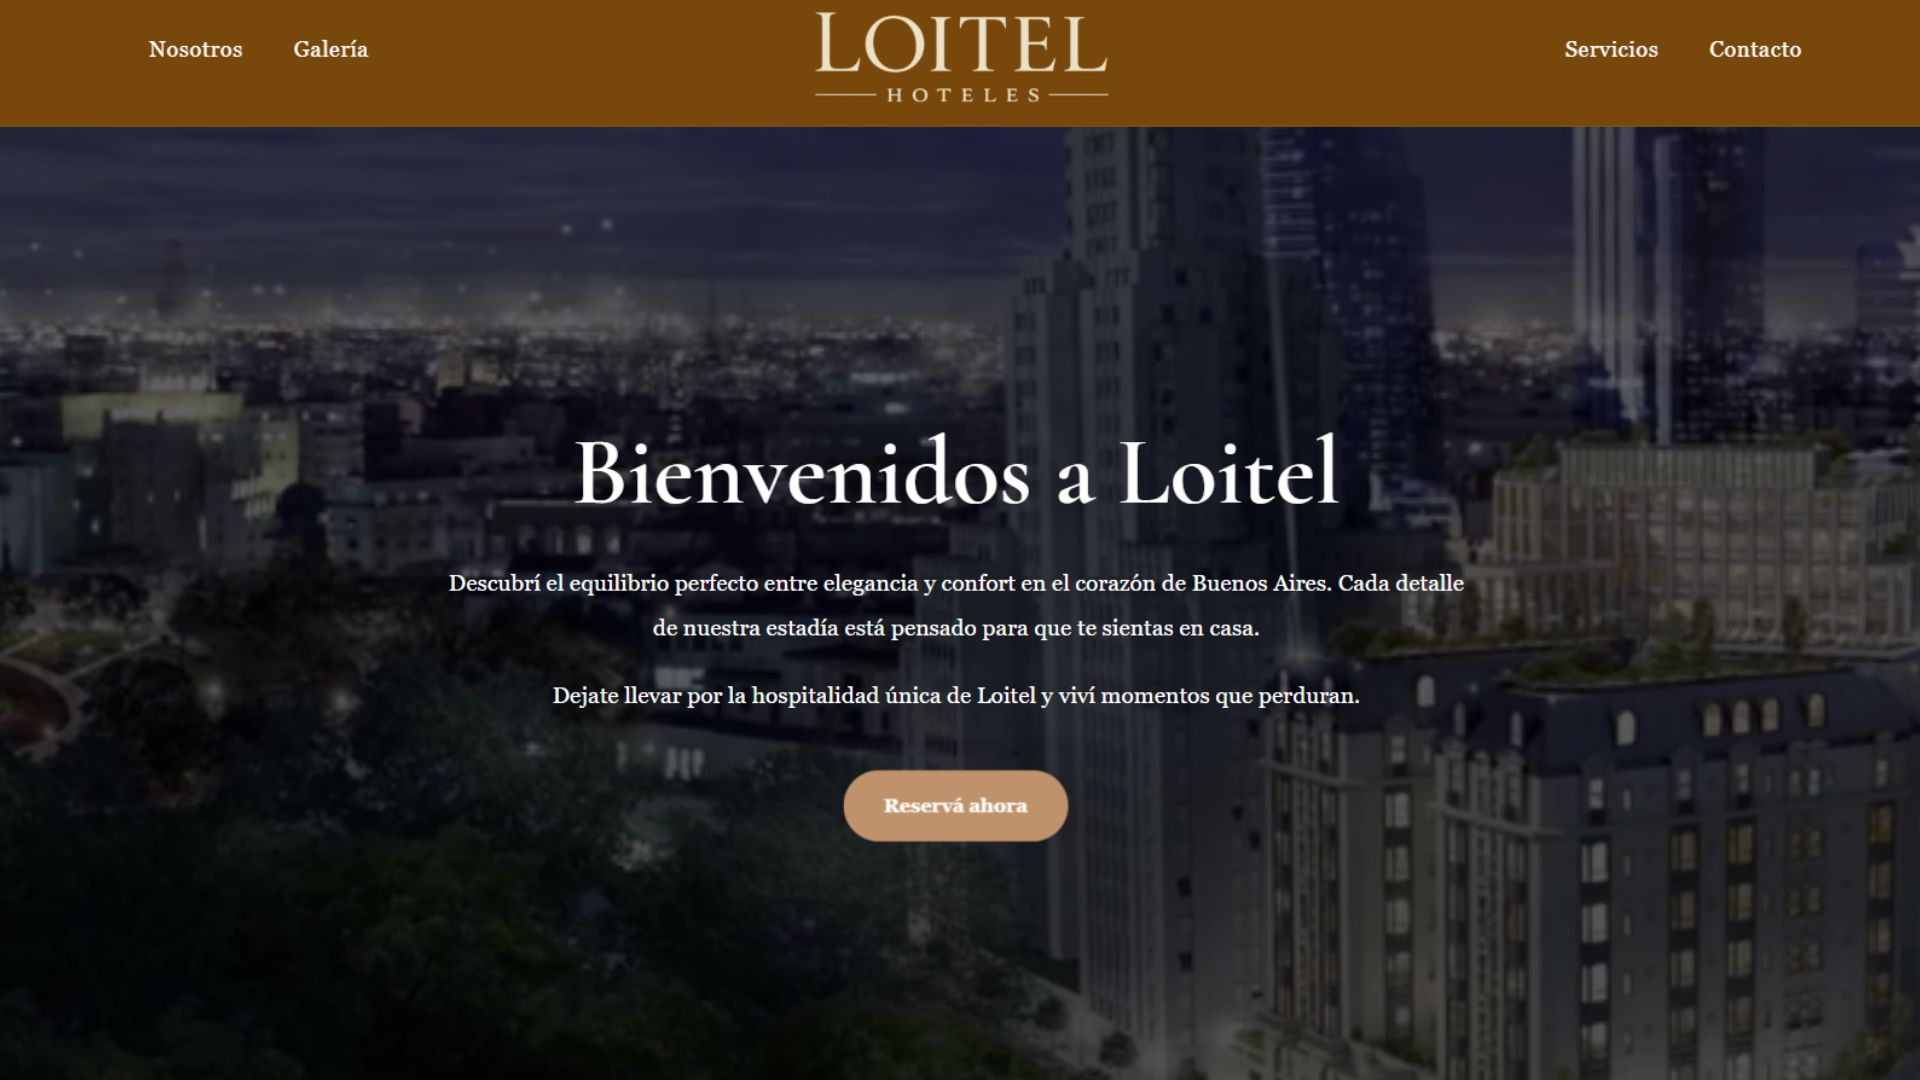
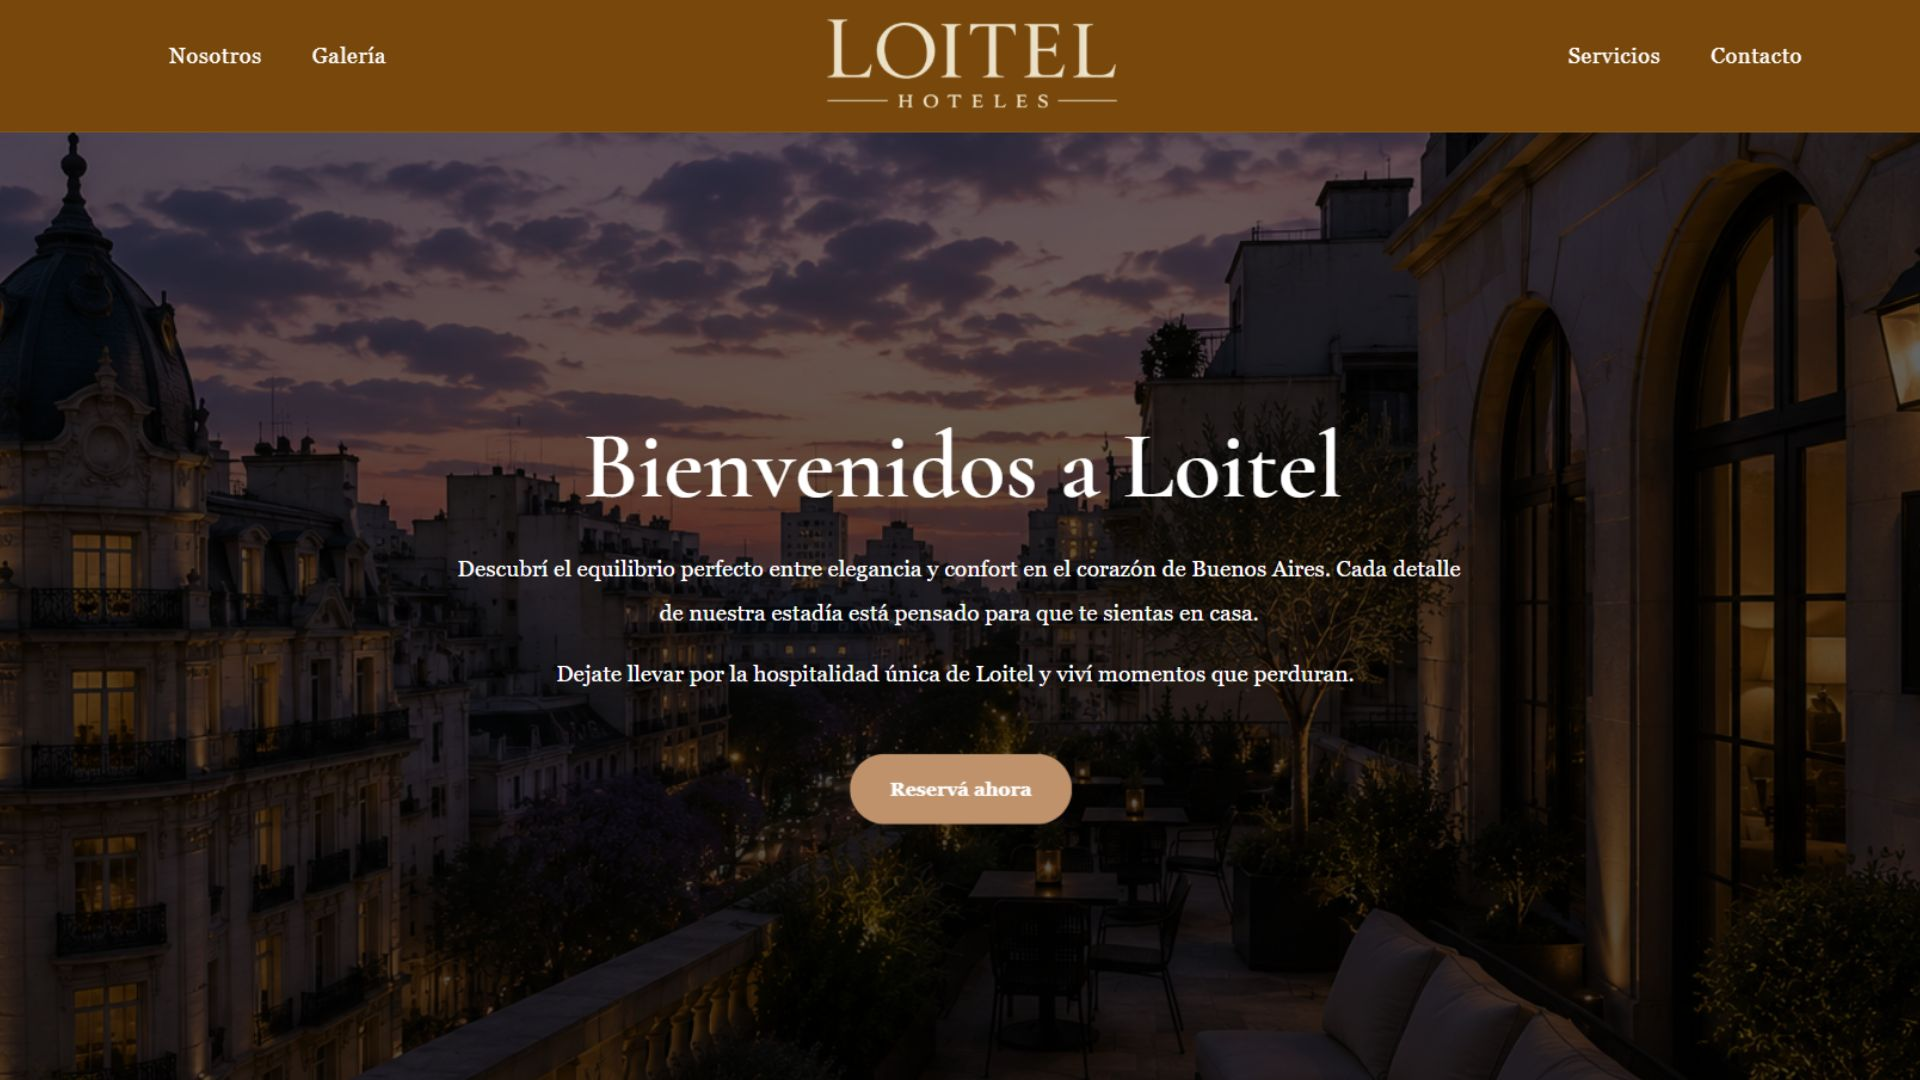
Cambio de imagenes de proyectos

diff --git a/index.html b/index.html
@@ -297,7 +297,7 @@
 
                     <article class="proy-card">
                         <a href="#" target="_blank" rel="noopener" class="proy-imagen">
-                            <img src="img/proyectos/proyecto-web-2.png" alt="Captura del proyecto 2">
+                            <img src="img/Proceso diploma.png" alt="Captura del proyecto 2">
                         </a>
                         <div class="proy-card-body">
                             <h4>Nombre del proyecto 2</h4>
@@ -310,7 +310,7 @@
 
                     <article class="proy-card">
                         <a href="#" target="_blank" rel="noopener" class="proy-imagen">
-                            <img src="img/proyectos/proyecto-web-3.png" alt="Captura del proyecto 3">
+                            <img src="img/Proceso diploma.png" alt="Captura del proyecto 3">
                         </a>
                         <div class="proy-card-body">
                             <h4>Nombre del proyecto 3</h4>
